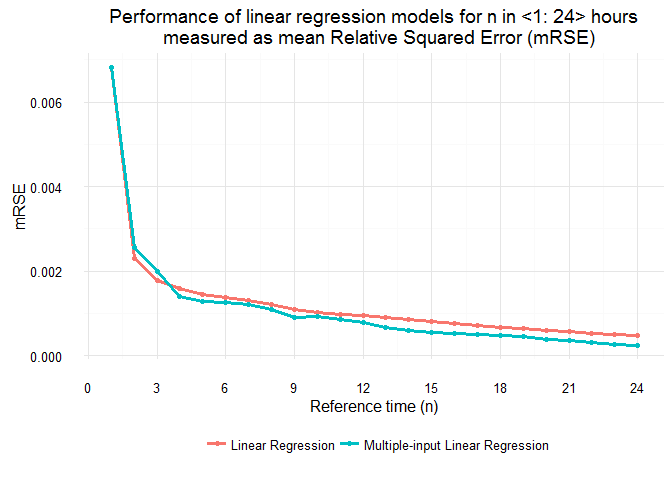
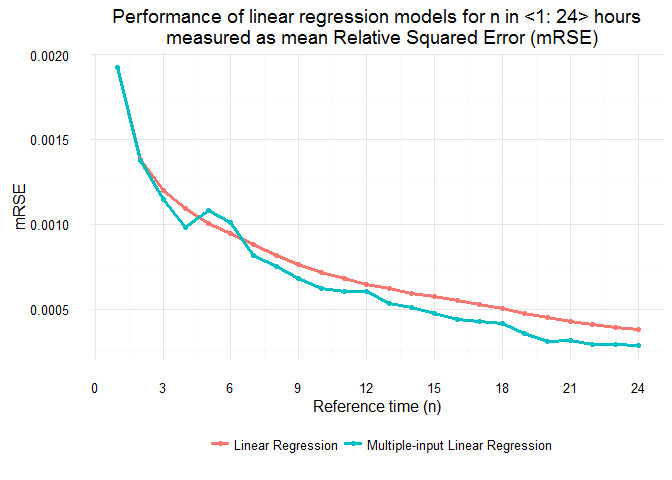
V 0.0.9.1
1. Updating README files.

diff --git a/README.html b/README.html
@@ -123,7 +123,7 @@ $(document).ready(function () {
 <ul>
 <li>Author: DG</li>
 <li>Date: 29DEC2016</li>
-<li>Last mod. date: 07JAN2017</li>
+<li>Last mod. date: 08JAN2017</li>
 <li>Input data: data.csv</li>
 </ul>
 </div>
@@ -131,9 +131,8 @@ $(document).ready(function () {
 <h2>0. Reading packages, setting working directory</h2>
 <pre class="r"><code>set.seed(1234567)
 rm(list = ls())
-if (!require(&quot;pacman&quot;)) install.packages(&quot;pacman&quot;)</code></pre>
-<pre><code>## Loading required package: pacman</code></pre>
-<pre class="r"><code>pacman::p_load(data.table, dplyr, ggplot2, caret, nortest, corrplot)
+if (!require(&quot;pacman&quot;)) install.packages(&quot;pacman&quot;)
+pacman::p_load(data.table, dplyr, ggplot2, caret, nortest, corrplot)
 
 library(data.table)
 library(dplyr)
@@ -255,17 +254,17 @@ data.test &lt;- data.videos[-split.vec,]</code></pre>
                              train = data.train,
                              test = data.test)
 mRSE.single.var$mRSE.test</code></pre>
-<pre><code>##  [1] 0.0068298057 0.0023124753 0.0017890998 0.0015863300 0.0014522931
-##  [6] 0.0013673630 0.0013013972 0.0012069497 0.0010908590 0.0010252535
-## [11] 0.0009869171 0.0009440198 0.0009012966 0.0008546808 0.0008066865
-## [16] 0.0007626109 0.0007155447 0.0006733554 0.0006366968 0.0006012064
-## [21] 0.0005676787 0.0005363355 0.0005060792 0.0004748116</code></pre>
+<pre><code>##  [1] 0.0019260952 0.0013794946 0.0012000904 0.0010907072 0.0010055435
+##  [6] 0.0009474114 0.0008789561 0.0008172859 0.0007613822 0.0007130734
+## [11] 0.0006781102 0.0006431790 0.0006191579 0.0005932844 0.0005710734
+## [16] 0.0005490705 0.0005261020 0.0005031134 0.0004750868 0.0004483604
+## [21] 0.0004271759 0.0004079866 0.0003919230 0.0003767827</code></pre>
 <p>The model which minimizes mRSE is the 24th one, so it is the one with log-transformed V24</p>
 <pre class="r"><code>mRSE.single.var$RMSE.train</code></pre>
-<pre><code>##  [1] 0.41928326 0.34403177 0.26357309 0.24023410 0.22066449 0.20123536
-##  [7] 0.18329548 0.16663618 0.15254138 0.14118357 0.13226730 0.12427461
-## [13] 0.11750035 0.11136646 0.10532627 0.09972780 0.09435373 0.08993844
-## [19] 0.08610465 0.08252391 0.07912080 0.07592840 0.07310578 0.07052027</code></pre>
+<pre><code>##  [1] 0.50453122 0.36319792 0.27592179 0.25067519 0.23017481 0.21036565
+##  [7] 0.19261473 0.17540352 0.16016057 0.14854742 0.13961736 0.13146393
+## [13] 0.12427493 0.11763679 0.11099231 0.10485911 0.09891208 0.09401563
+## [19] 0.08993314 0.08611342 0.08241025 0.07893036 0.07579590 0.07286072</code></pre>
 <p>The model which minimizes mRSE is the 24th one, so it is the one with log-transformed V24</p>
 <p>Prediction for models with multiple regresors:</p>
 <pre class="r"><code>pred.multiple.vars &lt;- c()
@@ -280,17 +279,17 @@ mRSE.multiple.vars &lt;- pred.mRSE(vars = pred.multiple.vars,
                                 test = data.test)
 
 mRSE.multiple.vars$mRSE.test</code></pre>
-<pre><code>##  [1] 0.0068298057 0.0025615451 0.0019911602 0.0014003344 0.0012792466
-##  [6] 0.0012669012 0.0012092244 0.0010941569 0.0008991543 0.0009235673
-## [11] 0.0008641742 0.0007871492 0.0006727876 0.0006051535 0.0005535804
-## [16] 0.0005270796 0.0004935108 0.0004796801 0.0004554811 0.0003880751
-## [21] 0.0003494044 0.0003057818 0.0002718681 0.0002517738</code></pre>
+<pre><code>##  [1] 0.0019260952 0.0013737413 0.0011436523 0.0009808765 0.0010833703
+##  [6] 0.0010113920 0.0008142643 0.0007522201 0.0006770676 0.0006233087
+## [11] 0.0006037896 0.0006016469 0.0005302602 0.0005084240 0.0004754733
+## [16] 0.0004397268 0.0004253235 0.0004125675 0.0003528488 0.0003080058
+## [21] 0.0003165451 0.0002907199 0.0002926537 0.0002869839</code></pre>
 <p>Model resulted in minimum mRSE was the 24th one, therefore it contained all log-transformed 24 variables.</p>
 <pre class="r"><code>mRSE.multiple.vars$RMSE.train</code></pre>
-<pre><code>##  [1] 0.41928326 0.34280709 0.25467486 0.22427517 0.19664600 0.16867020
-##  [7] 0.15034439 0.13481625 0.12624182 0.11643074 0.10869342 0.09819476
-## [13] 0.09313077 0.08754225 0.07847271 0.07467053 0.07356452 0.07311675
-## [19] 0.06968463 0.06544018 0.06063189 0.05782865 0.05582976 0.05223296</code></pre>
+<pre><code>##  [1] 0.50453122 0.36312877 0.26935132 0.23213247 0.20142993 0.17534373
+##  [7] 0.15932059 0.14201330 0.13148818 0.12355249 0.11473500 0.10282631
+## [13] 0.09653538 0.08972993 0.08021569 0.07655200 0.07497902 0.07446404
+## [19] 0.07182078 0.06711802 0.06154384 0.05830124 0.05565598 0.05176412</code></pre>
 <p>Model resulted in minimum RMSE was the 24th one, therefore it also contained all log-transformed 24 variables.</p>
 </div>
 <div id="mrse-visualization-" class="section level3">
@@ -303,25 +302,25 @@ mRSE.multiple.vars$mRSE.test</code></pre>
   melt(id = &quot;index&quot;)
 
 head(mRSE.compare) # checking the first 6 observations</code></pre>
-<pre><code>##   index        variable       value
-## 1     1 mRSE.single.var 0.006829806
-## 2     2 mRSE.single.var 0.002312475
-## 3     3 mRSE.single.var 0.001789100
-## 4     4 mRSE.single.var 0.001586330
-## 5     5 mRSE.single.var 0.001452293
-## 6     6 mRSE.single.var 0.001367363</code></pre>
+<pre><code>##   index        variable        value
+## 1     1 mRSE.single.var 0.0019260952
+## 2     2 mRSE.single.var 0.0013794946
+## 3     3 mRSE.single.var 0.0012000904
+## 4     4 mRSE.single.var 0.0010907072
+## 5     5 mRSE.single.var 0.0010055435
+## 6     6 mRSE.single.var 0.0009474114</code></pre>
 <p>Adding labels for data for ggplot2:</p>
 <pre class="r"><code>mRSE.compare[,2] &lt;- ifelse(mRSE.compare[,2] == &quot;mRSE.single.var&quot;,
                            &quot;Linear Regression&quot;,
                            &quot;Multiple-input Linear Regression&quot;)
 head(mRSE.compare) # checking the first 6 observations</code></pre>
-<pre><code>##   index          variable       value
-## 1     1 Linear Regression 0.006829806
-## 2     2 Linear Regression 0.002312475
-## 3     3 Linear Regression 0.001789100
-## 4     4 Linear Regression 0.001586330
-## 5     5 Linear Regression 0.001452293
-## 6     6 Linear Regression 0.001367363</code></pre>
+<pre><code>##   index          variable        value
+## 1     1 Linear Regression 0.0019260952
+## 2     2 Linear Regression 0.0013794946
+## 3     3 Linear Regression 0.0012000904
+## 4     4 Linear Regression 0.0010907072
+## 5     5 Linear Regression 0.0010055435
+## 6     6 Linear Regression 0.0009474114</code></pre>
 <p>Plot in ggplot2:</p>
 <pre class="r"><code>ggplot(mRSE.compare, aes(x = index, y = value, colour = variable)) + 
   geom_line(size = 1.2) +
@@ -334,7 +333,7 @@ head(mRSE.compare) # checking the first 6 observations</code></pre>
   measured as mean Relative Squared Error (mRSE)&quot;) +
   theme_minimal() +
   theme(legend.position = &quot;bottom&quot;, legend.title=element_blank())</code></pre>
[2 lines of base64/hex data omitted]
 </div>
 </div>
 

diff --git a/README.md b/README.md
@@ -1,7 +1,7 @@
 #### TP: recruitment exercise
 * Author:           DG
 * Date:             29DEC2016
-* Last  mod. date:  07JAN2017
+* Last  mod. date:  08JAN2017
 * Input data:       data.csv
 
 ## 0. Reading packages, setting working directory
@@ -11,13 +11,6 @@
 set.seed(1234567)
 rm(list = ls())
 if (!require("pacman")) install.packages("pacman")
-```
-
-```
-## Loading required package: pacman
-```
-
-```r
 pacman::p_load(data.table, dplyr, ggplot2, caret, nortest, corrplot)
 
 library(data.table)
@@ -251,11 +244,11 @@ mRSE.single.var$mRSE.test
 ```
 
 ```
-##  [1] 0.0068298057 0.0023124753 0.0017890998 0.0015863300 0.0014522931
-##  [6] 0.0013673630 0.0013013972 0.0012069497 0.0010908590 0.0010252535
-## [11] 0.0009869171 0.0009440198 0.0009012966 0.0008546808 0.0008066865
-## [16] 0.0007626109 0.0007155447 0.0006733554 0.0006366968 0.0006012064
-## [21] 0.0005676787 0.0005363355 0.0005060792 0.0004748116
+##  [1] 0.0019260952 0.0013794946 0.0012000904 0.0010907072 0.0010055435
+##  [6] 0.0009474114 0.0008789561 0.0008172859 0.0007613822 0.0007130734
+## [11] 0.0006781102 0.0006431790 0.0006191579 0.0005932844 0.0005710734
+## [16] 0.0005490705 0.0005261020 0.0005031134 0.0004750868 0.0004483604
+## [21] 0.0004271759 0.0004079866 0.0003919230 0.0003767827
 ```
 
 The model which minimizes mRSE is the 
@@ -268,10 +261,10 @@ mRSE.single.var$RMSE.train
 ```
 
 ```
-##  [1] 0.41928326 0.34403177 0.26357309 0.24023410 0.22066449 0.20123536
-##  [7] 0.18329548 0.16663618 0.15254138 0.14118357 0.13226730 0.12427461
-## [13] 0.11750035 0.11136646 0.10532627 0.09972780 0.09435373 0.08993844
-## [19] 0.08610465 0.08252391 0.07912080 0.07592840 0.07310578 0.07052027
+##  [1] 0.50453122 0.36319792 0.27592179 0.25067519 0.23017481 0.21036565
+##  [7] 0.19261473 0.17540352 0.16016057 0.14854742 0.13961736 0.13146393
+## [13] 0.12427493 0.11763679 0.11099231 0.10485911 0.09891208 0.09401563
+## [19] 0.08993314 0.08611342 0.08241025 0.07893036 0.07579590 0.07286072
 ```
 
 The model which minimizes mRSE is the
@@ -297,11 +290,11 @@ mRSE.multiple.vars$mRSE.test
 ```
 
 ```
-##  [1] 0.0068298057 0.0025615451 0.0019911602 0.0014003344 0.0012792466
-##  [6] 0.0012669012 0.0012092244 0.0010941569 0.0008991543 0.0009235673
-## [11] 0.0008641742 0.0007871492 0.0006727876 0.0006051535 0.0005535804
-## [16] 0.0005270796 0.0004935108 0.0004796801 0.0004554811 0.0003880751
-## [21] 0.0003494044 0.0003057818 0.0002718681 0.0002517738
+##  [1] 0.0019260952 0.0013737413 0.0011436523 0.0009808765 0.0010833703
+##  [6] 0.0010113920 0.0008142643 0.0007522201 0.0006770676 0.0006233087
+## [11] 0.0006037896 0.0006016469 0.0005302602 0.0005084240 0.0004754733
+## [16] 0.0004397268 0.0004253235 0.0004125675 0.0003528488 0.0003080058
+## [21] 0.0003165451 0.0002907199 0.0002926537 0.0002869839
 ```
 
 Model resulted in minimum mRSE was the 
@@ -314,10 +307,10 @@ mRSE.multiple.vars$RMSE.train
 ```
 
 ```
-##  [1] 0.41928326 0.34280709 0.25467486 0.22427517 0.19664600 0.16867020
-##  [7] 0.15034439 0.13481625 0.12624182 0.11643074 0.10869342 0.09819476
-## [13] 0.09313077 0.08754225 0.07847271 0.07467053 0.07356452 0.07311675
-## [19] 0.06968463 0.06544018 0.06063189 0.05782865 0.05582976 0.05223296
+##  [1] 0.50453122 0.36312877 0.26935132 0.23213247 0.20142993 0.17534373
+##  [7] 0.15932059 0.14201330 0.13148818 0.12355249 0.11473500 0.10282631
+## [13] 0.09653538 0.08972993 0.08021569 0.07655200 0.07497902 0.07446404
+## [19] 0.07182078 0.06711802 0.06154384 0.05830124 0.05565598 0.05176412
 ```
 
 Model resulted in minimum RMSE was the 
@@ -340,13 +333,13 @@ head(mRSE.compare) # checking the first 6 observations
 ```
 
 ```
-##   index        variable       value
-## 1     1 mRSE.single.var 0.006829806
-## 2     2 mRSE.single.var 0.002312475
-## 3     3 mRSE.single.var 0.001789100
-## 4     4 mRSE.single.var 0.001586330
-## 5     5 mRSE.single.var 0.001452293
-## 6     6 mRSE.single.var 0.001367363
+##   index        variable        value
+## 1     1 mRSE.single.var 0.0019260952
+## 2     2 mRSE.single.var 0.0013794946
+## 3     3 mRSE.single.var 0.0012000904
+## 4     4 mRSE.single.var 0.0010907072
+## 5     5 mRSE.single.var 0.0010055435
+## 6     6 mRSE.single.var 0.0009474114
 ```
 
 Adding labels for data for ggplot2:
@@ -360,13 +353,13 @@ head(mRSE.compare) # checking the first 6 observations
 ```
 
 ```
-##   index          variable       value
-## 1     1 Linear Regression 0.006829806
-## 2     2 Linear Regression 0.002312475
-## 3     3 Linear Regression 0.001789100
-## 4     4 Linear Regression 0.001586330
-## 5     5 Linear Regression 0.001452293
-## 6     6 Linear Regression 0.001367363
+##   index          variable        value
+## 1     1 Linear Regression 0.0019260952
+## 2     2 Linear Regression 0.0013794946
+## 3     3 Linear Regression 0.0012000904
+## 4     4 Linear Regression 0.0010907072
+## 5     5 Linear Regression 0.0010055435
+## 6     6 Linear Regression 0.0009474114
 ```
 
 Plot in ggplot2:
